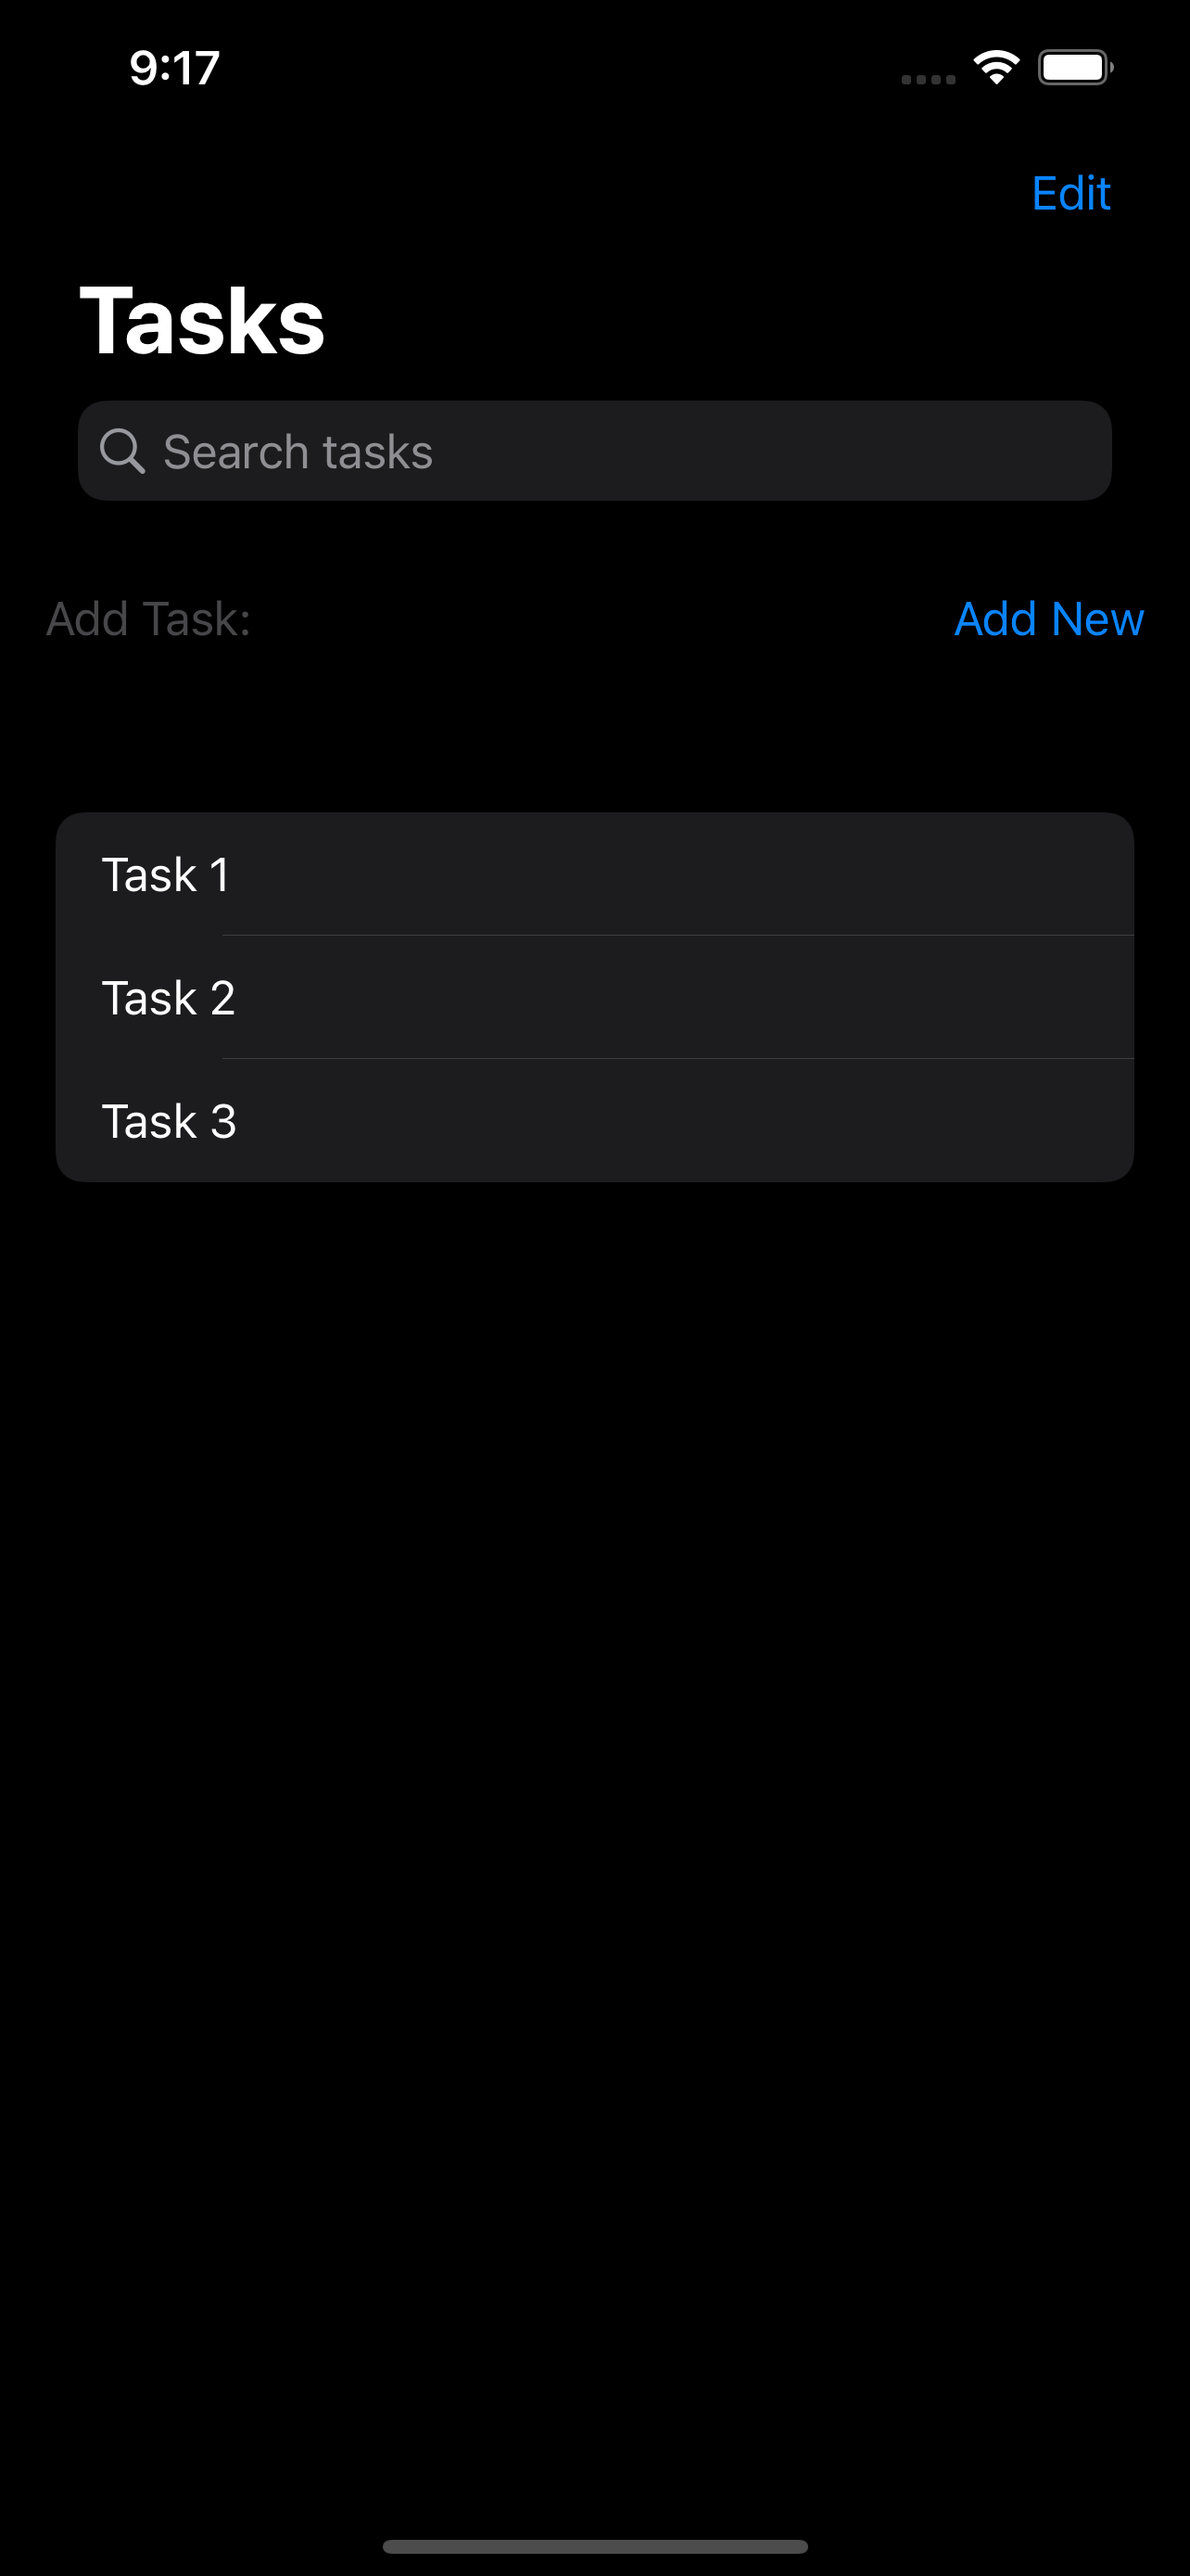
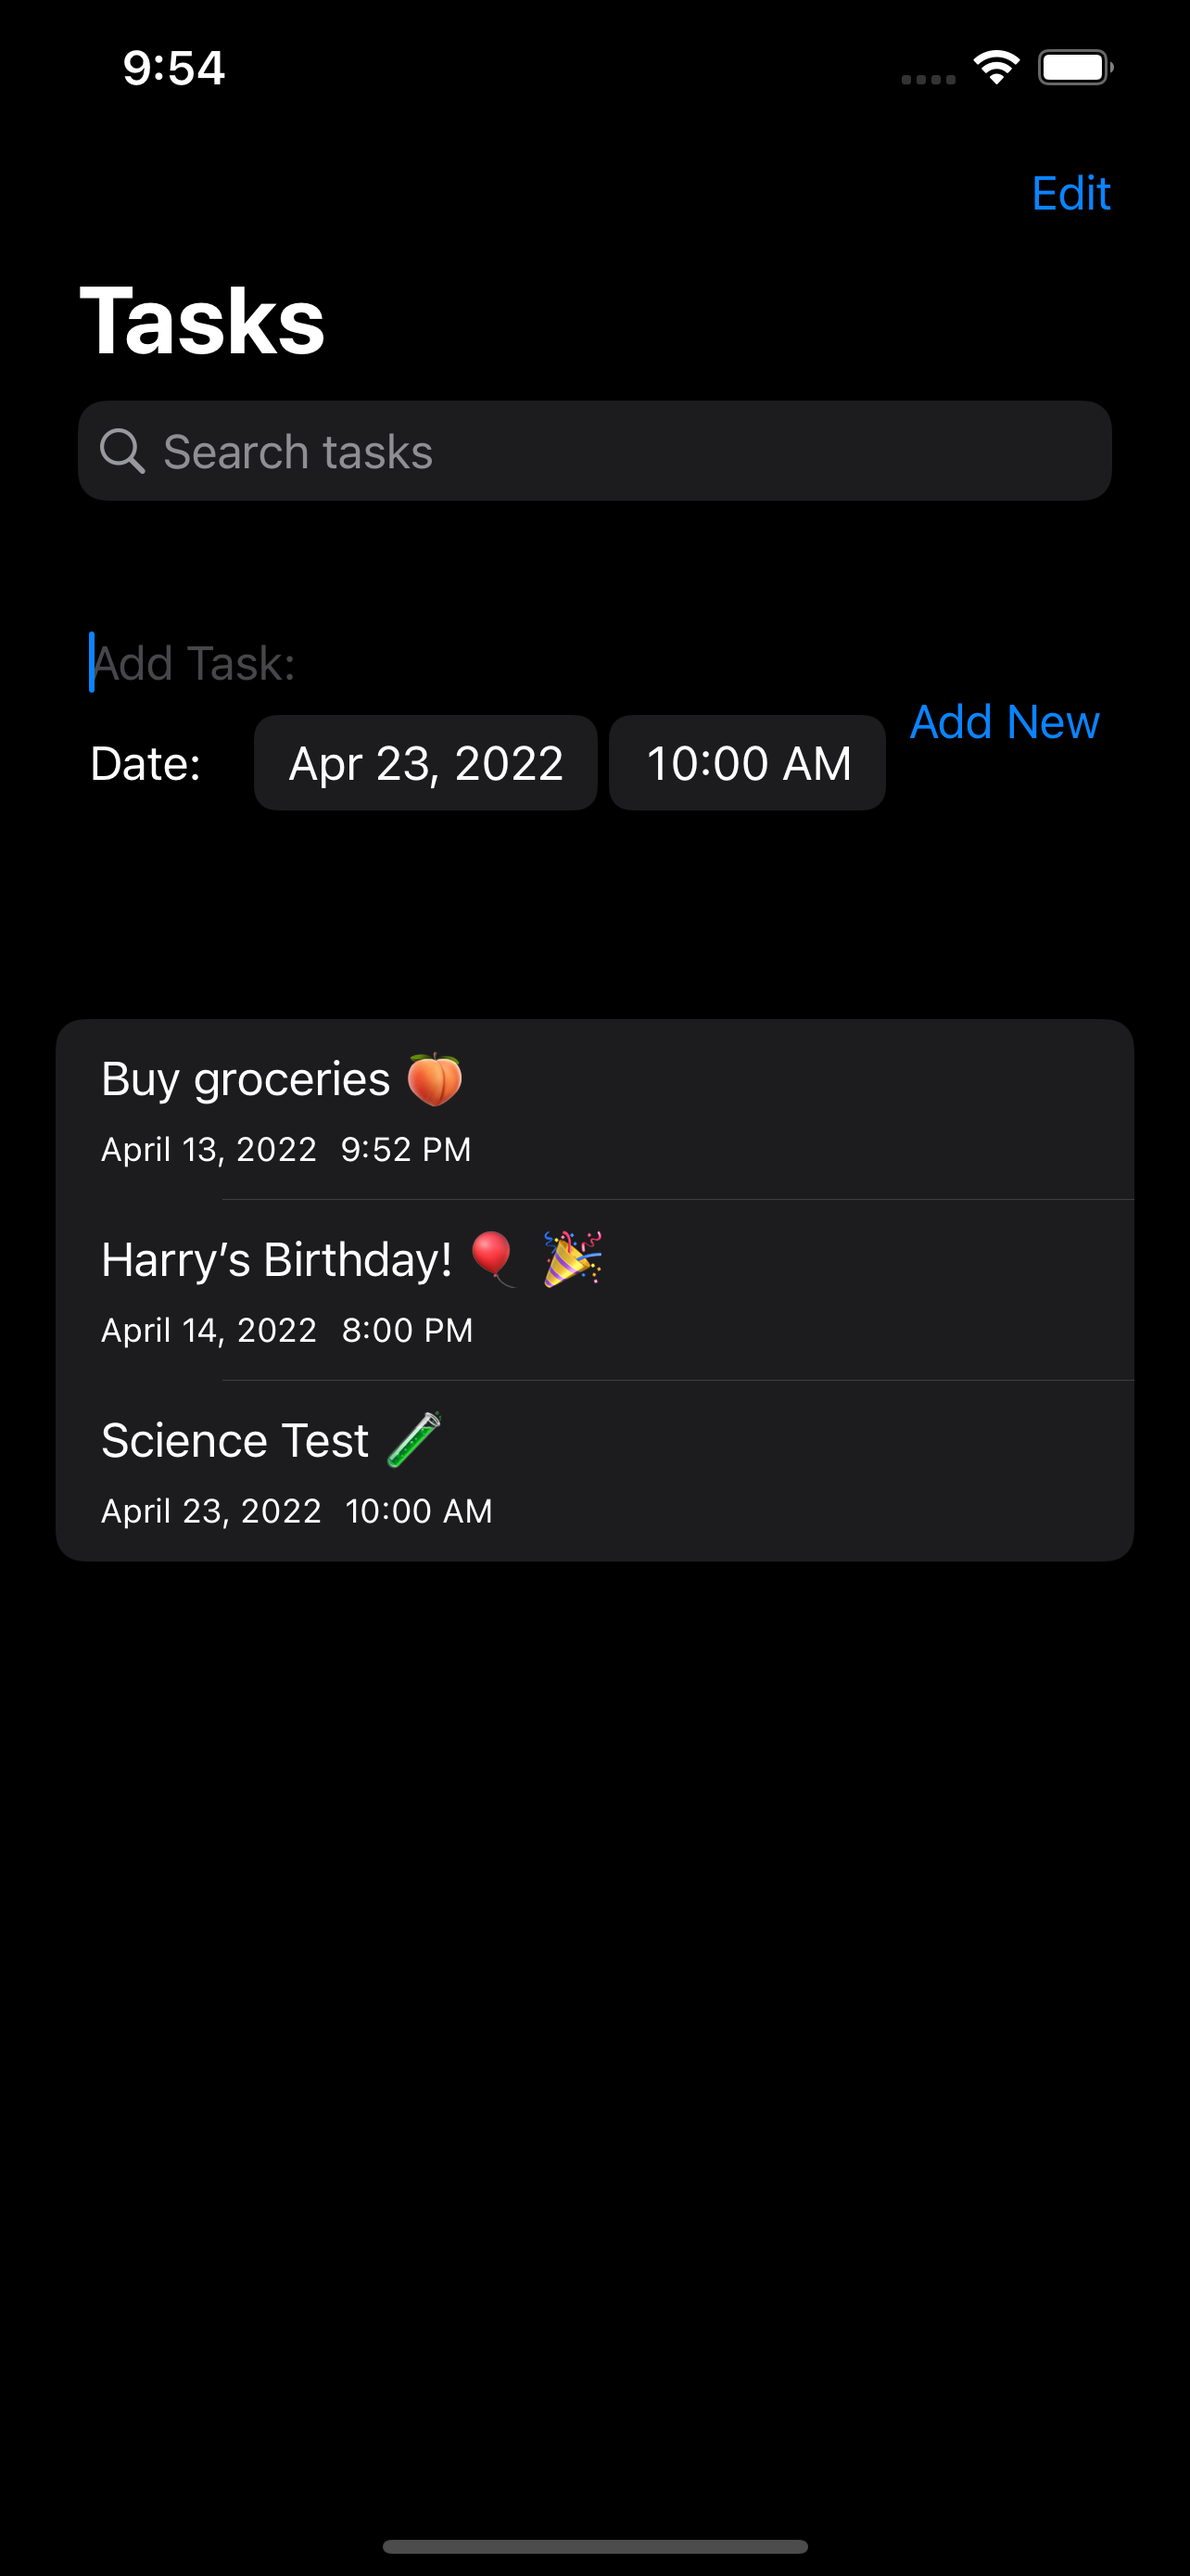
add a datetime element to the tasks

diff --git a/LibreTasks/ContentView.swift b/LibreTasks/ContentView.swift
@@ -12,6 +12,7 @@ struct ContentView: View {
     @ObservedObject var taskStore = TaskDataStore()
     @State var newTask : String = ""
     @State private var query = ""
+    @State var newTaskDate: Date = Date()
     
     var filteredTasks: [Task] {
         if query.isEmpty {
@@ -23,19 +24,25 @@ struct ContentView: View {
         }
     }
     
-    var addTaskBar : some View {
+    var addTaskBar: some View {
         HStack {
-            TextField("Add Task: ", text: self.$newTask)
+            VStack {
+                TextField("Add Task: ", text: self.$newTask)
+                DatePicker("Date: ", selection: $newTaskDate)
+                    .datePickerStyle(CompactDatePickerStyle())
+            }
             Button(action: self.addNewTask, label: {
                 Text("Add New")
             })
         }
+        .padding()
     }
     
     func addNewTask() {
         taskStore.tasks.append(Task(
             id: String(taskStore.tasks.count + 1),
-            taskItem: newTask
+            taskItem: newTask,
+            taskDate: newTaskDate
         ))
         self.newTask = ""
     }
@@ -46,12 +53,36 @@ struct ContentView: View {
                 addTaskBar.padding()
                 List {
                     ForEach(filteredTasks) { task in
-                        Text(task.taskItem)
+                        VStack(alignment: .leading) {
+                            Text(task.taskItem)
+                            Spacer()
+                            if (Date() > task.taskDate) {
+                                HStack {
+                                    Text(task.taskDate, style: .date)
+                                        .foregroundColor(.red)
+                                        .font(.caption)
+                                    Text(task.taskDate, style: .time)
+                                        .foregroundColor(.red)
+                                        .font(.caption)
+                                }
+                            } else {
+                                HStack {
+                                    Text(task.taskDate, style: .date)
+                                        .font(.caption)
+                                    Text(task.taskDate, style: .time)
+                                        .font(.caption)
+                                }
+                            }
+                        }
                     }
                     .onDelete(perform: self.deleteTask)
                 }
                 .navigationBarTitle("Tasks")
-                .navigationBarItems(trailing: EditButton())
+                .toolbar {
+                    ToolbarItemGroup(placement: .navigationBarTrailing) {
+                        EditButton()
+                    }
+                }
             }
         }
         .searchable(text: $query, prompt: "Search tasks")

diff --git a/LibreTasks/DataStore.swift b/LibreTasks/DataStore.swift
@@ -12,6 +12,7 @@ import Combine
 struct Task : Identifiable {
     var id = String()
     var taskItem = String()
+    var taskDate = Date()
 }
 
 class TaskDataStore: ObservableObject {
